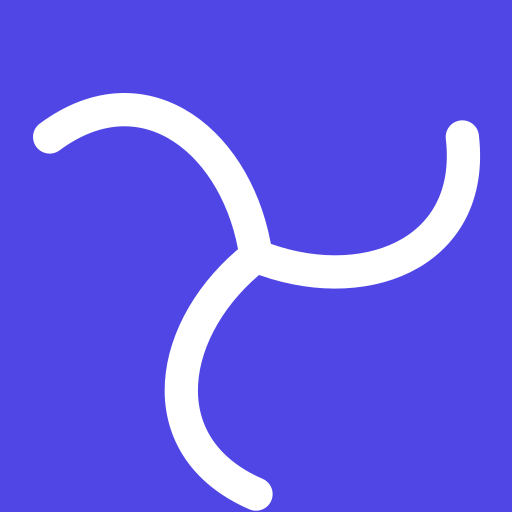
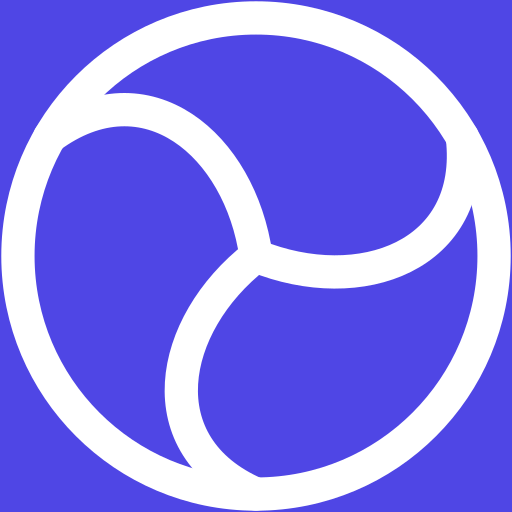
feat: enclose windmill mark in a circle (strands meet at the ring)

Changed region(s): [[0.0, 0.2812, 1.0, 1.0], [0.0625, 0.0, 0.9375, 0.2812]]

diff --git a/dashboard/index.html b/dashboard/index.html
@@ -14,7 +14,7 @@
   <div class="app-shell">
     <!-- Mobile Header -->
     <header class="mobile-header">
-      <a href="/" class="mobile-logo"><svg class="logo-mark" viewBox="0 0 100 100" aria-hidden="true"><g fill="none" stroke="currentColor" stroke-width="6.5" stroke-linecap="round"><path d="M 50.00 50.00 C 32.70 63.50 28.50 87.20 50.00 96.50"/><path d="M 50.00 50.00 C 46.90 28.20 28.50 12.80 9.70 26.75"/><path d="M 50.00 50.00 C 70.40 58.25 93.00 50.00 90.30 26.75"/></g></svg>FreeSurf Post</a>
+      <a href="/" class="mobile-logo"><svg class="logo-mark" viewBox="0 0 100 100" aria-hidden="true"><g fill="none" stroke="currentColor" stroke-width="6.5" stroke-linecap="round"><circle cx="50" cy="50" r="46.5"/><path d="M 50.00 50.00 C 32.70 63.50 28.50 87.20 50.00 96.50"/><path d="M 50.00 50.00 C 46.90 28.20 28.50 12.80 9.70 26.75"/><path d="M 50.00 50.00 C 70.40 58.25 93.00 50.00 90.30 26.75"/></g></svg>FreeSurf Post</a>
       <button class="mobile-menu-btn" id="mobile-menu-btn" aria-label="Toggle menu">
         <svg width="24" height="24" viewBox="0 0 24 24" fill="none" stroke="currentColor" stroke-width="2"><line x1="3" y1="6" x2="21" y2="6"/><line x1="3" y1="12" x2="21" y2="12"/><line x1="3" y1="18" x2="21" y2="18"/></svg>
       </button>
@@ -24,7 +24,7 @@
     <aside class="sidebar hidden" id="sidebar">
       <div class="sidebar-header">
         <a href="/" class="sidebar-logo">
-          <svg class="logo-mark" viewBox="0 0 100 100" aria-hidden="true"><g fill="none" stroke="currentColor" stroke-width="6.5" stroke-linecap="round"><path d="M 50.00 50.00 C 32.70 63.50 28.50 87.20 50.00 96.50"/><path d="M 50.00 50.00 C 46.90 28.20 28.50 12.80 9.70 26.75"/><path d="M 50.00 50.00 C 70.40 58.25 93.00 50.00 90.30 26.75"/></g></svg>
+          <svg class="logo-mark" viewBox="0 0 100 100" aria-hidden="true"><g fill="none" stroke="currentColor" stroke-width="6.5" stroke-linecap="round"><circle cx="50" cy="50" r="46.5"/><path d="M 50.00 50.00 C 32.70 63.50 28.50 87.20 50.00 96.50"/><path d="M 50.00 50.00 C 46.90 28.20 28.50 12.80 9.70 26.75"/><path d="M 50.00 50.00 C 70.40 58.25 93.00 50.00 90.30 26.75"/></g></svg>
           <span>FreeSurf Post</span>
         </a>
         <button class="sidebar-close" id="sidebar-close" aria-label="Close sidebar">
